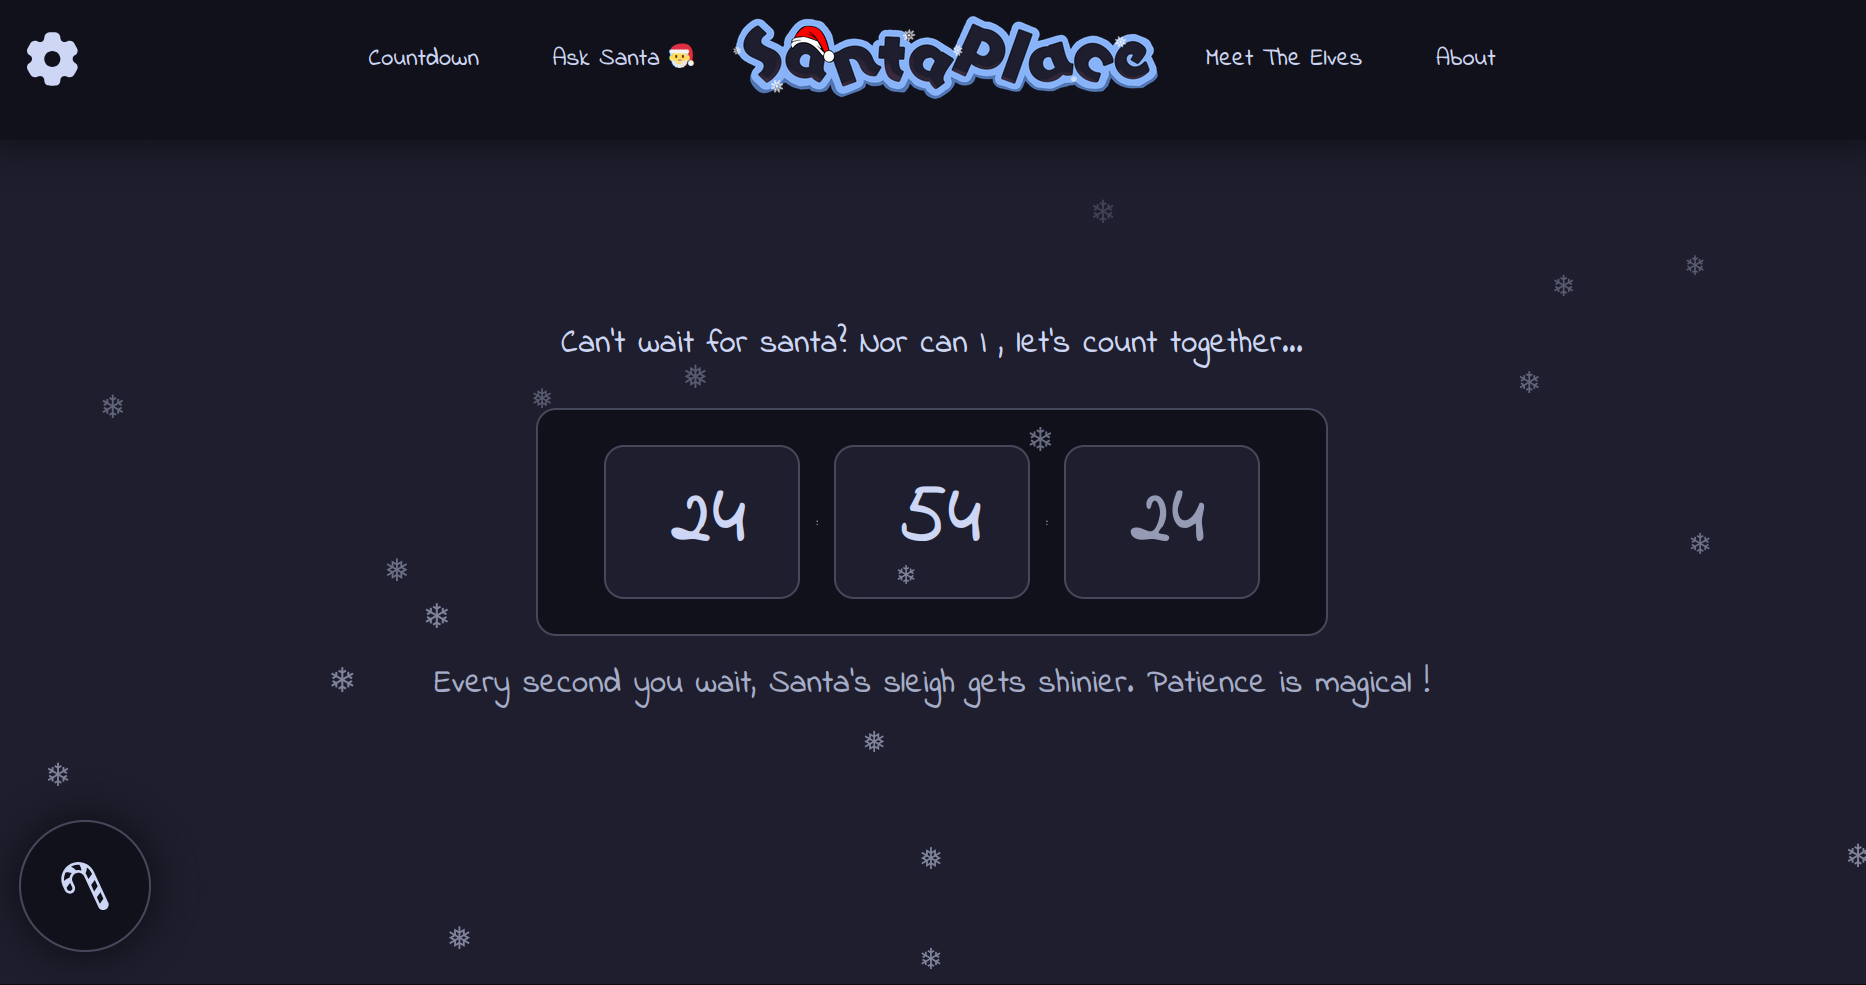
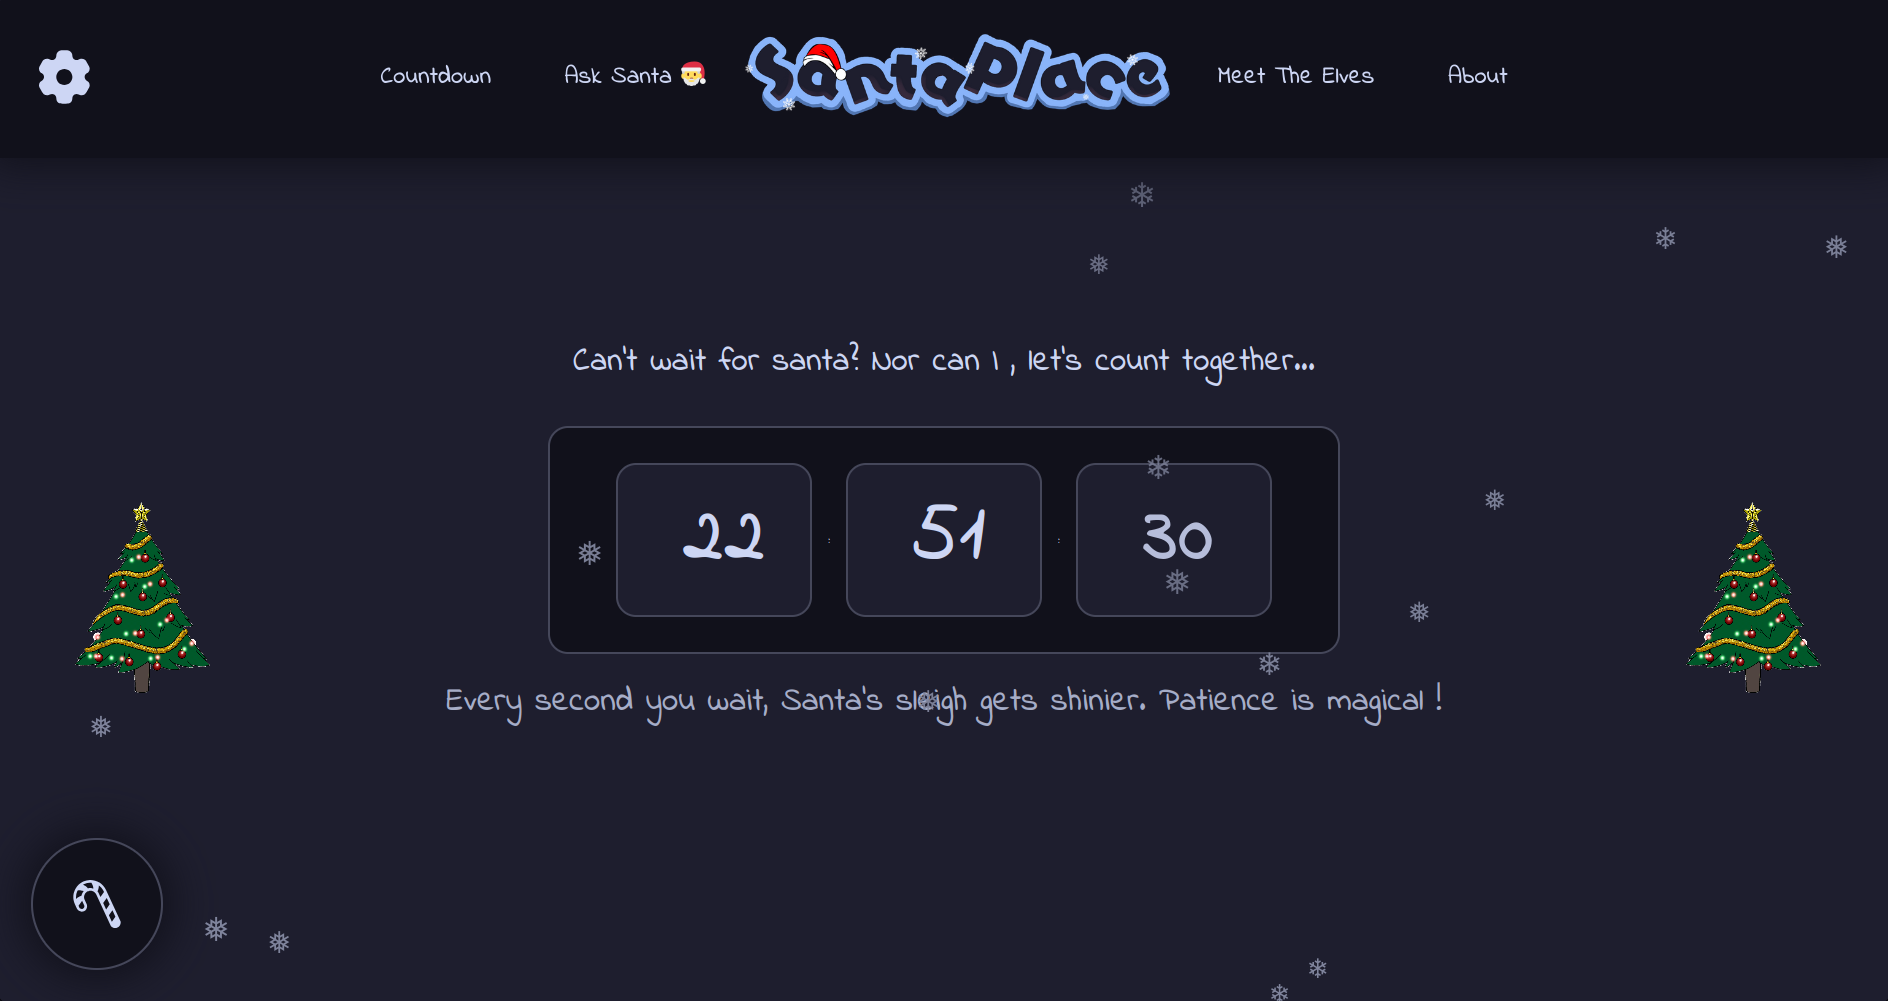
Added more animations

diff --git a/styles/style.css b/styles/style.css
@@ -119,7 +119,6 @@ header a{
 }
 header a:hover{
 	color: var(--fg2);
-
 }
 #leftNav{
 	float:left;
@@ -178,7 +177,7 @@ header a:hover{
   justify-content: center;
   align-items: center;
   padding: 1rem;
-
+  z-index: 3;
 }
 .timeContainer{
   font-size: 5rem;
@@ -192,6 +191,7 @@ header a:hover{
   border-radius:20px;
   border: 2px solid var(--fg3);
   width: 4rem;
+  z-index: 3;
 }
 #randomJoke{
   margin-top: 1.5rem;
@@ -205,6 +205,33 @@ header a:hover{
   top: 50%;
   bottom:0;
   transition: all 2s;
+  z-index: 10;
+}
+
+/* Trees */
+#tree{
+  position: absolute;
+  left: 4rem;
+  top: 50vh;
+  width: 8vw;
+  height:20vh;
+}
+
+#tree2{
+  position: absolute;
+  right: 4rem;
+  top: 50vh;
+  width: 8vw;
+  height:20vh;
+}
+
+/* Moving Ginger bread */
+#movingGinger{
+  position: absolute;
+  top: 50vh;
+  left:50vw;
+  transition: all 2s;
+  width:10rem;
 }
 
 
@@ -300,6 +327,7 @@ header a:hover{
   border: 2px solid var(--fg3);
   border-radius:20px;
   padding: 2rem;
+  z-index: 10;
   transition: all 1s ease;
 }
 #themes{

diff --git a/scripts/sfx.js b/scripts/sfx.js
@@ -1,4 +1,4 @@
-
+let ginger=document.getElementById('movingGinger');
 let isPlaying=false;
 let aud=new Audio("audio/jingle_bells.mp3");
 let santaAud=new Audio("audio/santaLaugh.mp3");
@@ -16,6 +16,7 @@ function fly(element) {
         }
       );
     }
+
 
 function flySmall(element) {
       flyAnim=element.animate(
@@ -41,7 +42,6 @@ function moveSanta(){
         }else{
         flySmall(santa);
         const laugh=setTimeout(santaAud.play(),1000);
-
         }
       }
       santaReq=false;
@@ -49,13 +49,26 @@ function moveSanta(){
     santaReq=true;
   }
 }
+function moveGinger(){
+  console.log("ran");
+  ginger.style.transform="translateY(-10rem)";
+  let getBack=setTimeout(()=>{
+    ginger.style.transform="translateY(0)";
+  },15000)
+  console.log("done...");
+
+}
 function Jingle(){
   if(!isPlaying){
     aud.play();
     isPlaying=true;
+    if(ginger){
+      moveGinger();
+    }
     moveSanta();
   }else{
     aud.pause();
     isPlaying=false;
   }
 }
+

diff --git a/index.html b/index.html
@@ -68,6 +68,9 @@
 </div>
 
 <img src="images/santa.gif" id="movingSanta">
+<img src="images/tree.gif" id="tree">
+<img src="images/tree.gif" id="tree2">
+<img src="images/gingerbread.png" id="movingGinger">
 
 <div id="themeDiv">
 <label for="themes" id="themeLabel">Themes: </label>

diff --git a/scripts/snow.js b/scripts/snow.js
@@ -16,6 +16,7 @@ const randFlake = () => {
   font-size: ${size}px;
   opacity: ${opacity};
   animation-duration: ${dur}s;
+  z-index:4;
   `
 }
 

diff --git a/styles/allScreens.css b/styles/allScreens.css
@@ -59,6 +59,12 @@
     left:1rem;
     top:50%;
   }
+  #tree{
+    display:none;
+  }
+  #tree2{
+    display:none;
+  }
 
 
 }
